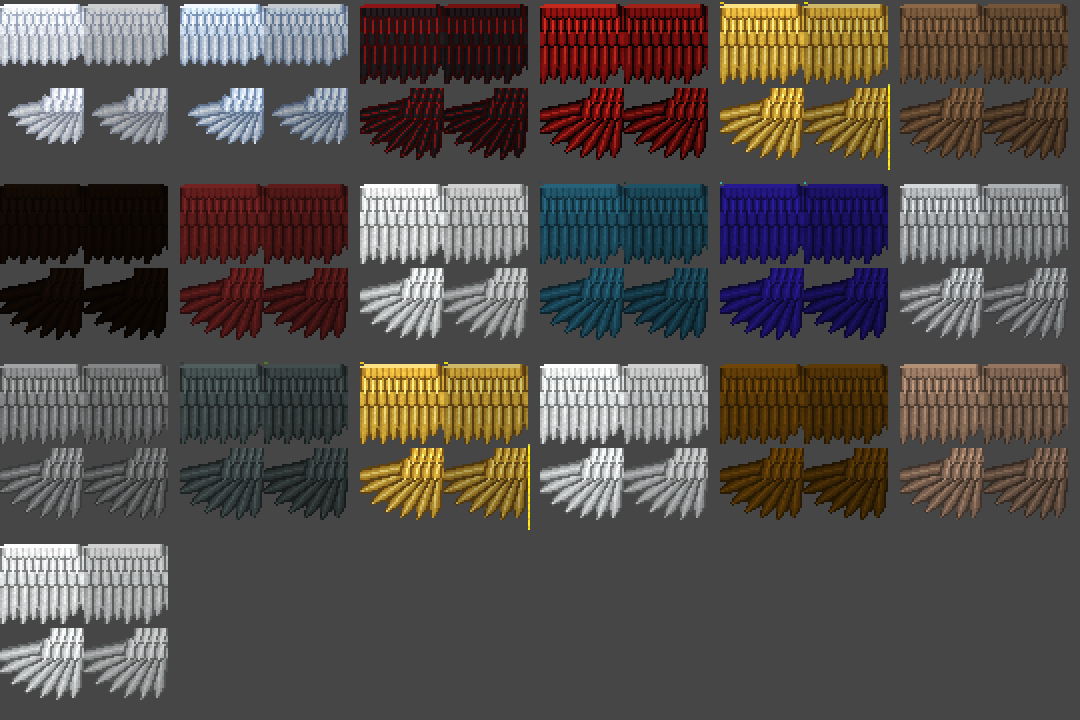
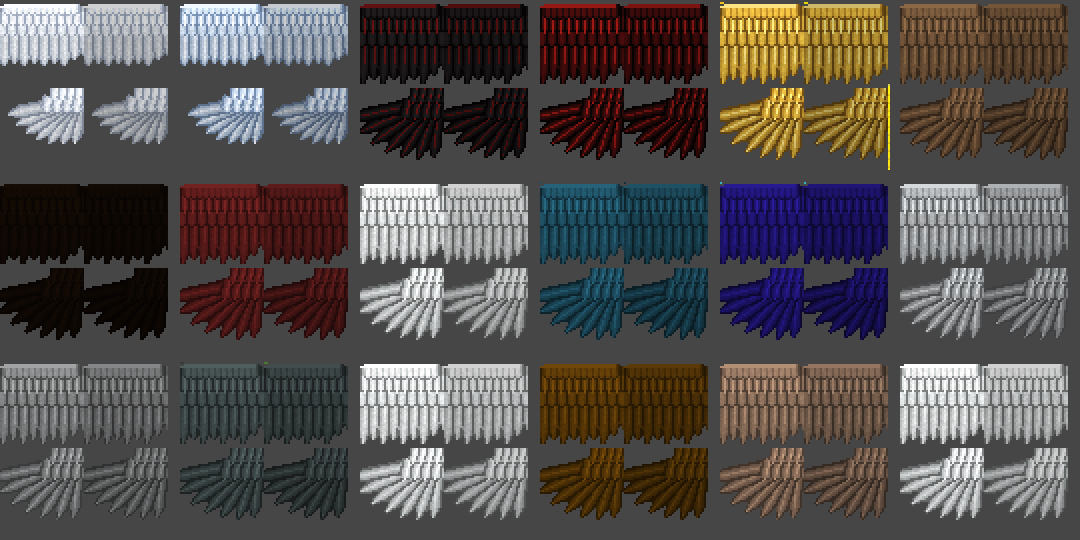
Wings: flip the other wing's texture (the first flip hit the correct one); darker nightmare feathers

diff --git a/tools/wings/make_wings.py b/tools/wings/make_wings.py
@@ -37,8 +37,8 @@ INNER, TIP = (0, 122), (0, 164)                  # top-left of each panel's top-
 SKINS = {
     'pegasus_blue.png': (0.76, dict(light=(250, 252, 255), mid=(232, 236, 242), dark=(198, 206, 218), rim=(150, 160, 178))),
     'pegasus_big_blue.png': (0.76, dict(light=(242, 248, 255), mid=(206, 220, 236), dark=(166, 186, 210), rim=(112, 134, 166))),
-    'nightmare_black.png': (1.0, dict(light=(140, 20, 20), mid=(34, 26, 28), dark=(16, 12, 14), rim=(58, 8, 8))),
-    'nightmare_big_red.png': (1.0, dict(light=(196, 42, 30), mid=(140, 18, 16), dark=(84, 8, 8), rim=(20, 6, 6))),
+    'nightmare_black.png': (1.0, dict(light=(96, 16, 16), mid=(30, 26, 28), dark=(14, 12, 13), rim=(6, 4, 5))),
+    'nightmare_big_red.png': (1.0, dict(light=(150, 24, 20), mid=(70, 12, 12), dark=(30, 8, 8), rim=(8, 4, 4))),
     'kirin_golden.png': (1.0, dict(light=(252, 226, 128), mid=(222, 180, 62), dark=(170, 126, 38), rim=(112, 78, 22))),
 }
 # every other skin a winged hybrid can wear: full-size feathers in colours taken from that skin's old wing art
@@ -80,7 +80,8 @@ def shrink(geo):
             if name.startswith('left'):
                 uv[1] += 1                      # the left wing read its squares one row too high
             cube['uv'] = box_faces(uv, cube['size'])
-            if name.startswith('left'):         # "mirror" doesn't flip top and bottom faces: flip them so the tips point out
+            if name.startswith('right'):        # "mirror" doesn't flip top and bottom faces, so one side reads its feathers
+                                                # backwards: flip that side's (in game, the left wing of the rider was right)
                 for face in ('up', 'down'):
                     if face in cube['uv'] and cube['size'][1] < 0.5:
                         f = cube['uv'][face]
@@ -215,7 +216,7 @@ def main():
     (OUT / 'geo' / 'magical_horse_model.geo.json').write_text(json.dumps(geo, indent=2) + '\n', encoding='utf-8')
     (OUT / 'textures' / 'entity').mkdir(parents=True, exist_ok=True)
     previews = []
-    for skin in list(SKINS) + list(OTHER_SKINS):
+    for skin in list(SKINS) + [s for s in OTHER_SKINS if s not in SKINS]:
         img = Image.open(io.BytesIO(jar.read(TEX + skin))).convert('RGBA')
         k, colours = SKINS.get(skin) or (1.0, auto_colours(base_colour(img)))
         redraw(img, colours, k).save(OUT / 'textures' / 'entity' / skin)
